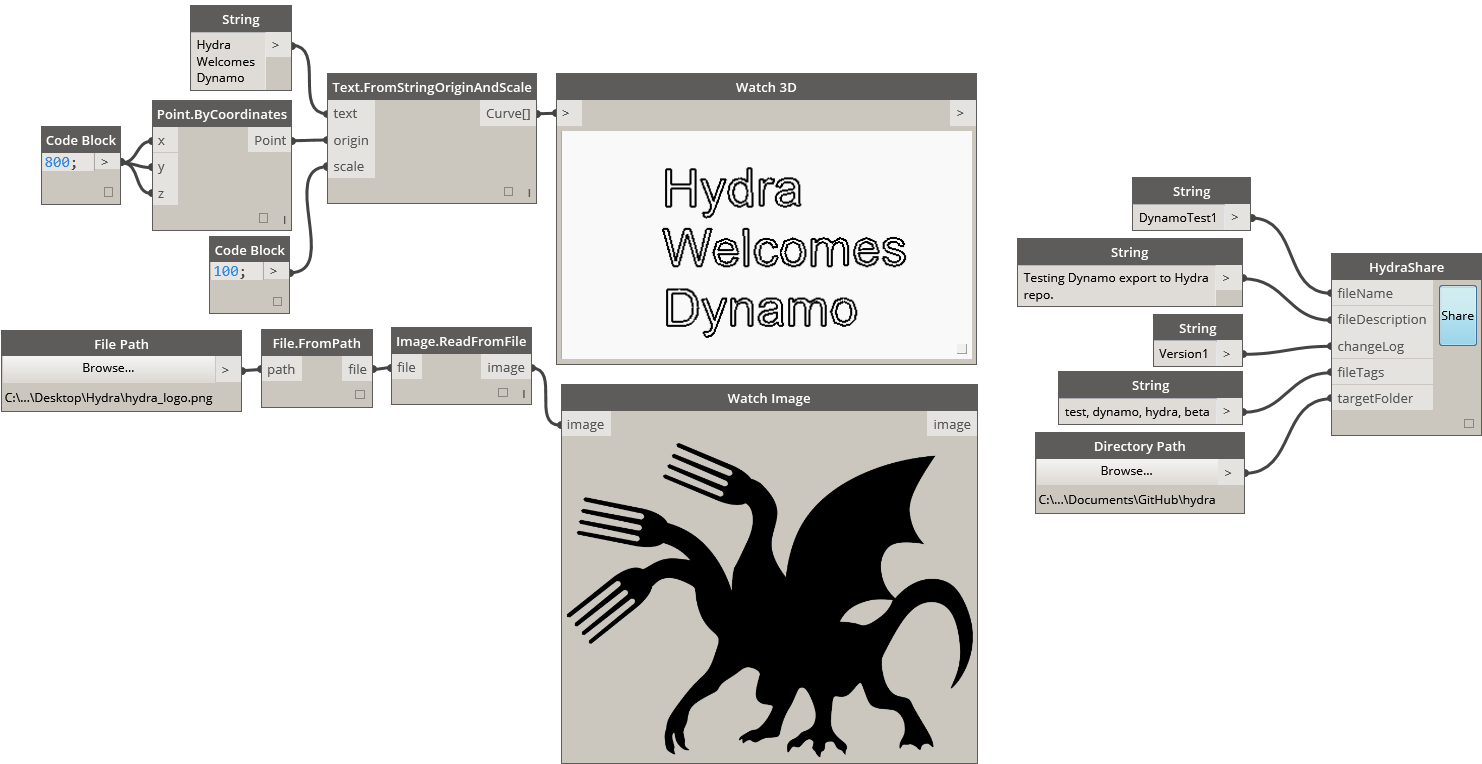
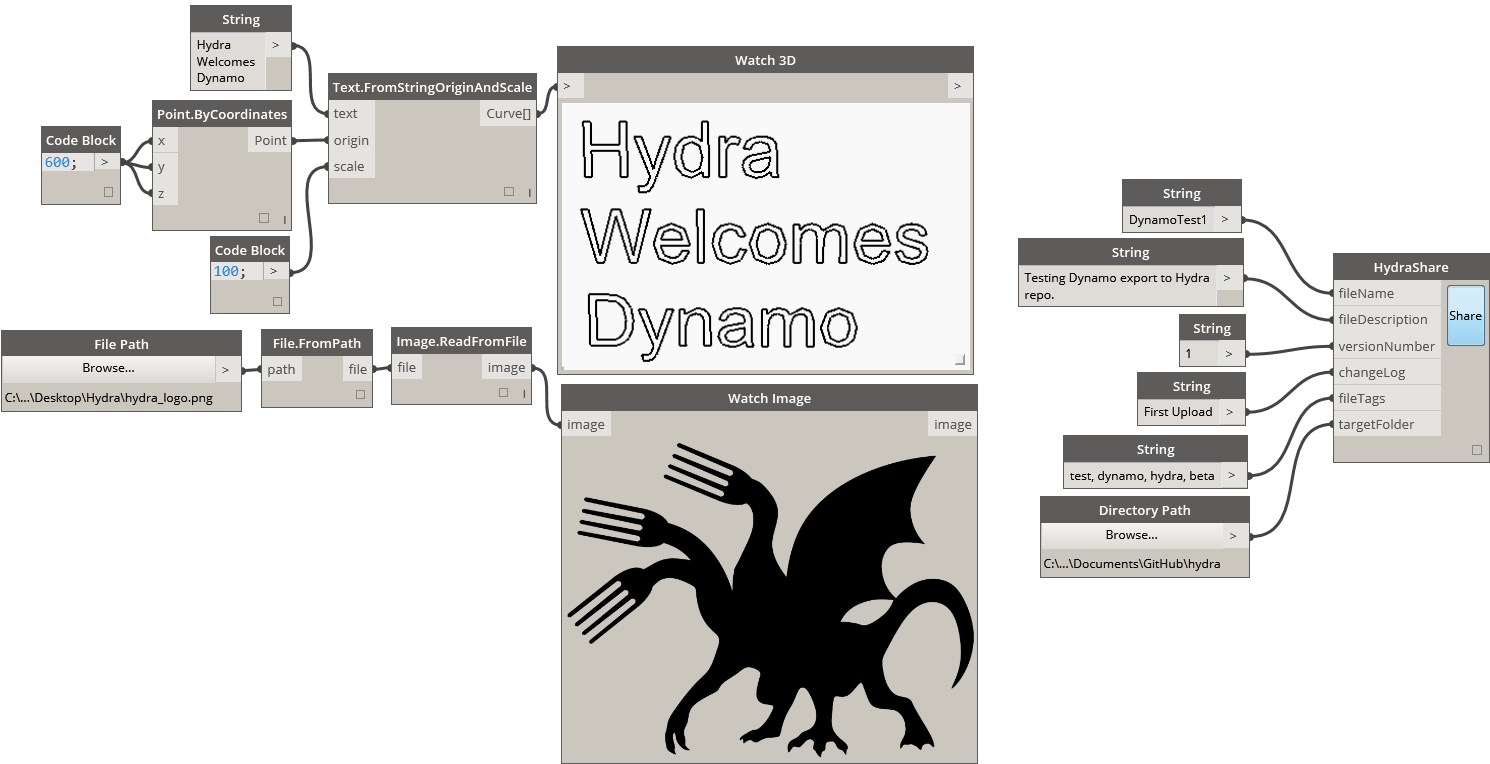
next

diff --git a/DynamoTest1/README.md b/DynamoTest1/README.md
@@ -1,5 +1,6 @@
 ### Description
 Testing Dynamo export to Hydra repo.
+### Version
+File Version: 1
 ### Tags
 test, dynamo, hydra, beta
-### Thumbnail
